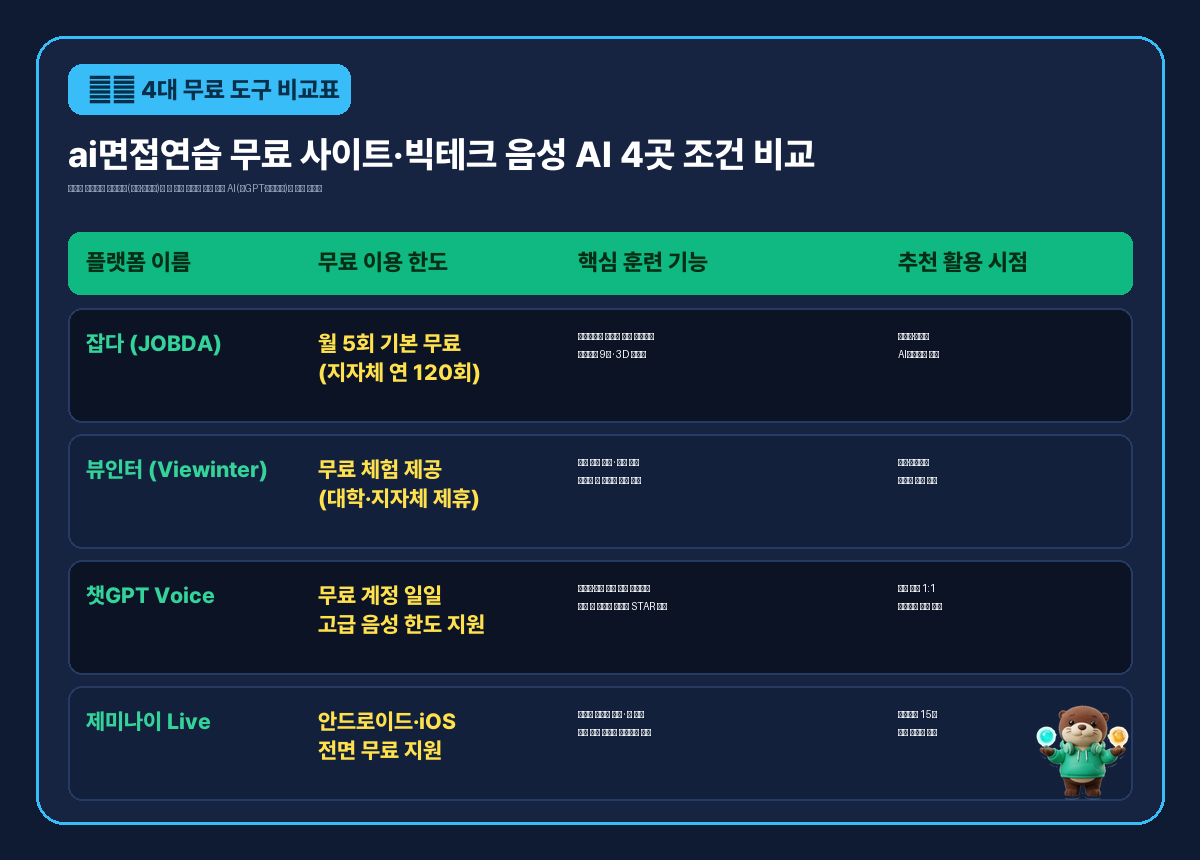
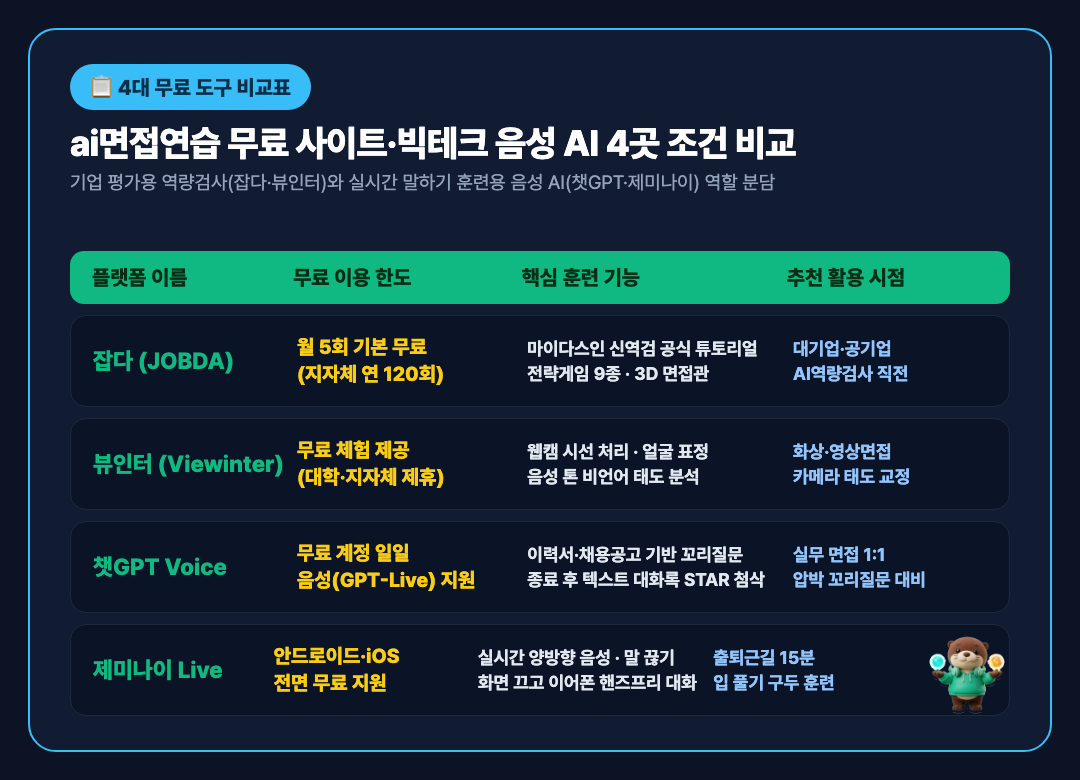
ai 2026-11-24 ai면접연습, 무료로 어디까지 되고 꼬리질문 어떻게 잡

Changed region(s): [[0.0306, 0.0308, 0.9778, 0.9846], [0.2444, 0.8308, 0.3972, 0.8923]]

diff --git a/ai/index.html b/ai/index.html
@@ -2,4 +2,4 @@
 <title>real_aiwork 출처 모음</title><style>body{font-family:-apple-system,'Apple SD Gothic Neo',sans-serif;max-width:560px;margin:0 auto;padding:24px;background:#faf7f2;color:#111}
 h1{font-size:22px;margin:8px 0}p{color:#555}ul{list-style:none;padding:0}li{background:#fff;border-radius:16px;padding:16px;margin:12px 0;box-shadow:0 1px 4px #0001}
 .d{font-size:12px;color:#888}.t{font-weight:700;margin:4px 0 10px}a{display:inline-block;margin-right:10px;color:#1B5FD6;text-decoration:none;font-weight:600;word-break:break-all}.ch{margin:14px 0 18px}.chbtn{display:block;background:#fff;border-radius:16px;padding:15px 18px;margin:10px 0;box-shadow:0 1px 4px #0001;font-size:16px;font-weight:700;color:#1B5FD6;border:1px solid #e5e7eb}.chsec{margin:18px 0 8px;font-size:13px;font-weight:700;color:#666}.chsub{font-size:15px;padding:13px 16px}</style></head>
-<body><h1>real_aiwork 출처 모음</h1><p>게시글에 쓴 공식 발표·기사 원문 링크예요. 눌러서 바로 이동하세요.</p><div class=ch><a class=chbtn href="https://www.threads.com/@real_aiwork">🧵 스레드에서도 이어서 봐요 → @real_aiwork</a><a class=chbtn href="https://www.instagram.com/real_aiwork/">📸 인스타 @real_aiwork</a><div class=chsec>함께 운영하는 채널</div><a class="chbtn chsub" href="https://www.instagram.com/real_kpick/">📸 인스타 @real_kpick (1분 생활돈·혜택)</a><a class="chbtn chsub" href="https://www.threads.com/@real_kpick">🧵 스레드 @real_kpick (생활꿀팁 한 줄 요약)</a><a class="chbtn chsub" href="https://blog.naver.com/pakk0741">📘 네이버 블로그 (리얼픽 · 실생활 경제 가이드)</a><a class="chbtn chsub" href="https://www.youtube.com/channel/UC-4M8DcQinBwFLoyRwzDD4Q">▶ 유튜브 쇼츠</a><a class="chbtn chsub" href="https://realaiwork.blogspot.com">📝 구글 블로그</a></div><ul><li><div class=d>2026-11-24</div><div class=t>자소서 ai 판독기, 직접 써도 80% 뜬다면 몇 %까지 괜찮을까?</div><a class=s href="https://www.copykiller.com/service-info/gpt-killer">원문 출처: 무하유 카피킬러 · Anthropic · OpenAI · GPTZero</a> <a class=p href="https://www.instagram.com/reel/DgG8T8DEq_z/">게시글 보기</a></li><li><div class=d>2026-11-23</div><div class=t>AI 에이전트, 내 대신 클릭·예약까지 진짜 해줄까?</div><a class=s href="https://help.openai.com/en/articles/11752874-chatgpt-agent">원문 출처: OpenAI · Anthropic · Google</a> <a class=p href="https://www.instagram.com/reel/DgFHsWmnPsi/">게시글 보기</a></li><li><div class=d>2026-11-23</div><div class=t>질문만 하던 AI, 알아서 일하게 켜는 3가지 기능</div><a class=s href="https://help.openai.com/en/articles/10291617-scheduled-tasks-in-chatgpt">원문 출처: Google Gemini</a> <a class=p href="https://www.instagram.com/p/DgEXkMLj_Th/">게시글 보기</a></li><li><div class=d>2026-11-22</div><div class=t>메타 vs 삼성·구글 AI 안경, 지금 살 모델은?</div><a class=s href="https://www.koreaherald.com/article/10938540">원문 출처: </a> <a class=p href="https://www.instagram.com/reel/DgCoQojALod/">게시글 보기</a></li><li><div class=d>2026-11-22</div><div class=t>거절·사과 메일 막힐 때, AI 이메일 작성 10초 톤 조절법</div><a class=s href="https://support.google.com/mail/answer/13955415?hl=ko">원문 출처: </a> <a class=p href="https://www.instagram.com/reel/DgByt6sCQRt/">게시글 보기</a></li><li><div class=d>2026-11-21</div><div class=t>AI 모델 얼굴 10초 고정 어떻게 할까요?</div><a class=s href="https://blog.google/products-and-platforms/products/gemini/updated-image-editing-model/">원문 출처: </a> <a class=p href="https://www.instagram.com/reel/DgAB3X_iVqg/">게시글 보기</a></li><li><div class=d>2026-11-21</div><div class=t>해외 AI 번역기 70개국어 1초 통역 뭘 써야 할까요?</div><a class=s href="https://blog.google/innovation-and-ai/models-and-research/gemini-models/gemini-live-3-5-translate/">원문 출처: </a> <a class=p href="https://www.instagram.com/reel/Df_S2aIoYiW/">게시글 보기</a></li><li><div class=d>2026-11-21</div><div class=t>회의록 작성 AI 추천 무료 한도 600분 내 업무엔 뭘 쓸까요?</div><a class=s href="https://help.naver.com/service/23251/category/bookmark">원문 출처: </a> <a class=p href="https://www.instagram.com/reel/Df9776TD6wz/">게시글 보기</a></li><li><div class=d>2026-11-20</div><div class=t>회의록 작성 AI 추천 무료 한도 600분 내 업무엔 뭘 쓸까요?</div><a class=s href="https://help.naver.com/service/23251/category/bookmark">원문 출처: </a> <a class=p href="https://www.instagram.com/reel/Df9ZM3-ikPX/">게시글 보기</a></li><li><div class=d>2026-11-20</div><div class=t>클로드 엑셀 연동, 파일만 올리면 차트까지 3단계?</div><a class=s href="https://support.claude.com/en/articles/12111783-create-and-edit-files-with-claude">원문 출처: </a> <a class=p href="https://www.instagram.com/p/Df824wUj1pr/">게시글 보기</a></li><li><div class=d>2026-11-19</div><div class=t>엑셀 함수 하나도 몰라도 됩니다</div><a class=s href="https://support.microsoft.com/en-us/excel/functions/sumif-function">원문 출처: Microsoft Support (SUMIF · XLOOKUP · DATEDIF)</a> <a class=p href="https://www.instagram.com/reel/Df60ZEWD4JN/">게시글 보기</a></li><li><div class=d>2026-11-19</div><div class=t>회의 끝나고 5분, 회의록은 AI가 씁니다</div><a class=s href="https://help.openai.com/en/articles/7730893-data-controls-faq">원문 출처: OpenAI · Anthropic · Google 공식 도움말</a> <a class=p href="https://www.instagram.com/reel/Df6EchMiBzO/">게시글 보기</a></li><li><div class=d>2026-11-18</div><div class=t>총무 혼자 하던 일 AI가 합니다</div><a class=s href="https://openai.com/index/group-chats-in-chatgpt/">원문 출처: OpenAI 공식 발표·도움말</a> <a class=p href="https://www.instagram.com/reel/Df4Pm1wjGDe/">게시글 보기</a></li><li><div class=d>2026-11-18</div><div class=t>질문 한 줄이 답을 바꿔요</div><a class=s href="https://platform.openai.com/docs/guides/prompt-engineering">원문 출처: OpenAI·Anthropic·Google 공식 프롬프트 가이드</a> <a class=p href="https://www.instagram.com/reel/Df3ipy6DF-F/">게시글 보기</a></li><li><div class=d>2026-11-17</div><div class=t>연휴 운전 일정, Ask Maps에 물어보세요</div><a class=s href="https://blog.google/products-and-platforms/products/maps/ask-maps-holiday-travel-features-2026/">원문 출처: Google AI 블로그 · ZDNET · The Verge</a> <a class=p href="https://www.instagram.com/p/Df2JfR4D9Yw/">게시글 보기</a></li><li><div class=d>2026-11-17</div><div class=t>챗GPT가 내 대신 장보고 결제까지? &#x27;ChatGPT 월렛&#x27; 핵심 3가지</div><a class=s href="https://community.openai.com/t/introducing-chatgpt-wallet/1416044">원문 출처: OpenAI Community · The Paypers · The Decoder</a> <a class=p href="https://www.instagram.com/p/Df1Dbrskrg5/">게시글 보기</a></li><li><div class=d>2026-11-16</div><div class=t>제미나이 4 Hydrogen 핵심 3가지</div><a class=s href="https://blog.google">원문 출처: 구글 발표·Tom&#x27;s Guide</a> <a class=p href="https://www.instagram.com/reel/Dfzem0fj_ML/">게시글 보기</a></li><li><div class=d>2026-11-16</div><div class=t>유료 AI 3개 다 결제 중? 무료로 나눠 쓰는 법</div><a class=s href="https://chatgpt.com/pricing">원문 출처: OpenAI·Anthropic·Google 공식 요금 페이지</a> <a class=p href="https://www.instagram.com/p/DfyyXPDD4Iu/">게시글 보기</a></li><li><div class=d>2026-11-16</div><div class=t>65만 원부터 화면 없이 되는 AI 안경 3가지</div><a class=s href="https://www.yna.co.kr/view/AKR20261112140300017">원문 출처: 연합뉴스·전자신문·구글 코리아 블로그·매일경제</a> <a class=p href="https://www.instagram.com/p/DfylHGJDyT5/">게시글 보기</a></li><li><div class=d>2026-11-14</div><div class=t>엑셀·회의 보드, 이제 말로 만든다</div><a class=s href="https://claude.com/resources/articles/sheets-whiteboards-data">원문 출처: Anthropic 공식 발표</a> <a class=p href="https://www.instagram.com/real_aiwork/p/DfuDucPFIvy/">게시글 보기</a> <a class=p href="https://www.threads.com/@real_aiwork/post/DfuD6xBH4GS">스레드에서 보기</a></li></ul></body></html>
+<body><h1>real_aiwork 출처 모음</h1><p>게시글에 쓴 공식 발표·기사 원문 링크예요. 눌러서 바로 이동하세요.</p><div class=ch><a class=chbtn href="https://www.threads.com/@real_aiwork">🧵 스레드에서도 이어서 봐요 → @real_aiwork</a><a class=chbtn href="https://www.instagram.com/real_aiwork/">📸 인스타 @real_aiwork</a><div class=chsec>함께 운영하는 채널</div><a class="chbtn chsub" href="https://www.instagram.com/real_kpick/">📸 인스타 @real_kpick (1분 생활돈·혜택)</a><a class="chbtn chsub" href="https://www.threads.com/@real_kpick">🧵 스레드 @real_kpick (생활꿀팁 한 줄 요약)</a><a class="chbtn chsub" href="https://blog.naver.com/pakk0741">📘 네이버 블로그 (리얼픽 · 실생활 경제 가이드)</a><a class="chbtn chsub" href="https://www.youtube.com/channel/UC-4M8DcQinBwFLoyRwzDD4Q">▶ 유튜브 쇼츠</a><a class="chbtn chsub" href="https://realaiwork.blogspot.com">📝 구글 블로그</a></div><ul><li><div class=d>2026-11-24</div><div class=t>ai면접연습, 무료로 어디까지 되고 꼬리질문 어떻게 잡을까?</div><a class=s href="https://www.jobda.im/acca/test">원문 출처: 마이다스인 잡다(JOBDA) · OpenAI · Google Gemini · 뷰인터 · 사람인</a> <a class=p href="https://www.instagram.com/reel/DgHsX3KFadu/">게시글 보기</a></li><li><div class=d>2026-11-24</div><div class=t>자소서 ai 판독기, 직접 써도 80% 뜬다면 몇 %까지 괜찮을까?</div><a class=s href="https://www.copykiller.com/service-info/gpt-killer">원문 출처: 무하유 카피킬러 · Anthropic · OpenAI · GPTZero</a> <a class=p href="https://www.instagram.com/reel/DgG8T8DEq_z/">게시글 보기</a></li><li><div class=d>2026-11-23</div><div class=t>AI 에이전트, 내 대신 클릭·예약까지 진짜 해줄까?</div><a class=s href="https://help.openai.com/en/articles/11752874-chatgpt-agent">원문 출처: OpenAI · Anthropic · Google</a> <a class=p href="https://www.instagram.com/reel/DgFHsWmnPsi/">게시글 보기</a></li><li><div class=d>2026-11-23</div><div class=t>질문만 하던 AI, 알아서 일하게 켜는 3가지 기능</div><a class=s href="https://help.openai.com/en/articles/10291617-scheduled-tasks-in-chatgpt">원문 출처: Google Gemini</a> <a class=p href="https://www.instagram.com/p/DgEXkMLj_Th/">게시글 보기</a></li><li><div class=d>2026-11-22</div><div class=t>메타 vs 삼성·구글 AI 안경, 지금 살 모델은?</div><a class=s href="https://www.koreaherald.com/article/10938540">원문 출처: </a> <a class=p href="https://www.instagram.com/reel/DgCoQojALod/">게시글 보기</a></li><li><div class=d>2026-11-22</div><div class=t>거절·사과 메일 막힐 때, AI 이메일 작성 10초 톤 조절법</div><a class=s href="https://support.google.com/mail/answer/13955415?hl=ko">원문 출처: </a> <a class=p href="https://www.instagram.com/reel/DgByt6sCQRt/">게시글 보기</a></li><li><div class=d>2026-11-21</div><div class=t>AI 모델 얼굴 10초 고정 어떻게 할까요?</div><a class=s href="https://blog.google/products-and-platforms/products/gemini/updated-image-editing-model/">원문 출처: </a> <a class=p href="https://www.instagram.com/reel/DgAB3X_iVqg/">게시글 보기</a></li><li><div class=d>2026-11-21</div><div class=t>해외 AI 번역기 70개국어 1초 통역 뭘 써야 할까요?</div><a class=s href="https://blog.google/innovation-and-ai/models-and-research/gemini-models/gemini-live-3-5-translate/">원문 출처: </a> <a class=p href="https://www.instagram.com/reel/Df_S2aIoYiW/">게시글 보기</a></li><li><div class=d>2026-11-21</div><div class=t>회의록 작성 AI 추천 무료 한도 600분 내 업무엔 뭘 쓸까요?</div><a class=s href="https://help.naver.com/service/23251/category/bookmark">원문 출처: </a> <a class=p href="https://www.instagram.com/reel/Df9776TD6wz/">게시글 보기</a></li><li><div class=d>2026-11-20</div><div class=t>회의록 작성 AI 추천 무료 한도 600분 내 업무엔 뭘 쓸까요?</div><a class=s href="https://help.naver.com/service/23251/category/bookmark">원문 출처: </a> <a class=p href="https://www.instagram.com/reel/Df9ZM3-ikPX/">게시글 보기</a></li><li><div class=d>2026-11-20</div><div class=t>클로드 엑셀 연동, 파일만 올리면 차트까지 3단계?</div><a class=s href="https://support.claude.com/en/articles/12111783-create-and-edit-files-with-claude">원문 출처: </a> <a class=p href="https://www.instagram.com/p/Df824wUj1pr/">게시글 보기</a></li><li><div class=d>2026-11-19</div><div class=t>엑셀 함수 하나도 몰라도 됩니다</div><a class=s href="https://support.microsoft.com/en-us/excel/functions/sumif-function">원문 출처: Microsoft Support (SUMIF · XLOOKUP · DATEDIF)</a> <a class=p href="https://www.instagram.com/reel/Df60ZEWD4JN/">게시글 보기</a></li><li><div class=d>2026-11-19</div><div class=t>회의 끝나고 5분, 회의록은 AI가 씁니다</div><a class=s href="https://help.openai.com/en/articles/7730893-data-controls-faq">원문 출처: OpenAI · Anthropic · Google 공식 도움말</a> <a class=p href="https://www.instagram.com/reel/Df6EchMiBzO/">게시글 보기</a></li><li><div class=d>2026-11-18</div><div class=t>총무 혼자 하던 일 AI가 합니다</div><a class=s href="https://openai.com/index/group-chats-in-chatgpt/">원문 출처: OpenAI 공식 발표·도움말</a> <a class=p href="https://www.instagram.com/reel/Df4Pm1wjGDe/">게시글 보기</a></li><li><div class=d>2026-11-18</div><div class=t>질문 한 줄이 답을 바꿔요</div><a class=s href="https://platform.openai.com/docs/guides/prompt-engineering">원문 출처: OpenAI·Anthropic·Google 공식 프롬프트 가이드</a> <a class=p href="https://www.instagram.com/reel/Df3ipy6DF-F/">게시글 보기</a></li><li><div class=d>2026-11-17</div><div class=t>연휴 운전 일정, Ask Maps에 물어보세요</div><a class=s href="https://blog.google/products-and-platforms/products/maps/ask-maps-holiday-travel-features-2026/">원문 출처: Google AI 블로그 · ZDNET · The Verge</a> <a class=p href="https://www.instagram.com/p/Df2JfR4D9Yw/">게시글 보기</a></li><li><div class=d>2026-11-17</div><div class=t>챗GPT가 내 대신 장보고 결제까지? &#x27;ChatGPT 월렛&#x27; 핵심 3가지</div><a class=s href="https://community.openai.com/t/introducing-chatgpt-wallet/1416044">원문 출처: OpenAI Community · The Paypers · The Decoder</a> <a class=p href="https://www.instagram.com/p/Df1Dbrskrg5/">게시글 보기</a></li><li><div class=d>2026-11-16</div><div class=t>제미나이 4 Hydrogen 핵심 3가지</div><a class=s href="https://blog.google">원문 출처: 구글 발표·Tom&#x27;s Guide</a> <a class=p href="https://www.instagram.com/reel/Dfzem0fj_ML/">게시글 보기</a></li><li><div class=d>2026-11-16</div><div class=t>유료 AI 3개 다 결제 중? 무료로 나눠 쓰는 법</div><a class=s href="https://chatgpt.com/pricing">원문 출처: OpenAI·Anthropic·Google 공식 요금 페이지</a> <a class=p href="https://www.instagram.com/p/DfyyXPDD4Iu/">게시글 보기</a></li><li><div class=d>2026-11-16</div><div class=t>65만 원부터 화면 없이 되는 AI 안경 3가지</div><a class=s href="https://www.yna.co.kr/view/AKR20261112140300017">원문 출처: 연합뉴스·전자신문·구글 코리아 블로그·매일경제</a> <a class=p href="https://www.instagram.com/p/DfylHGJDyT5/">게시글 보기</a></li><li><div class=d>2026-11-14</div><div class=t>엑셀·회의 보드, 이제 말로 만든다</div><a class=s href="https://claude.com/resources/articles/sheets-whiteboards-data">원문 출처: Anthropic 공식 발표</a> <a class=p href="https://www.instagram.com/real_aiwork/p/DfuDucPFIvy/">게시글 보기</a> <a class=p href="https://www.threads.com/@real_aiwork/post/DfuD6xBH4GS">스레드에서 보기</a></li></ul></body></html>
